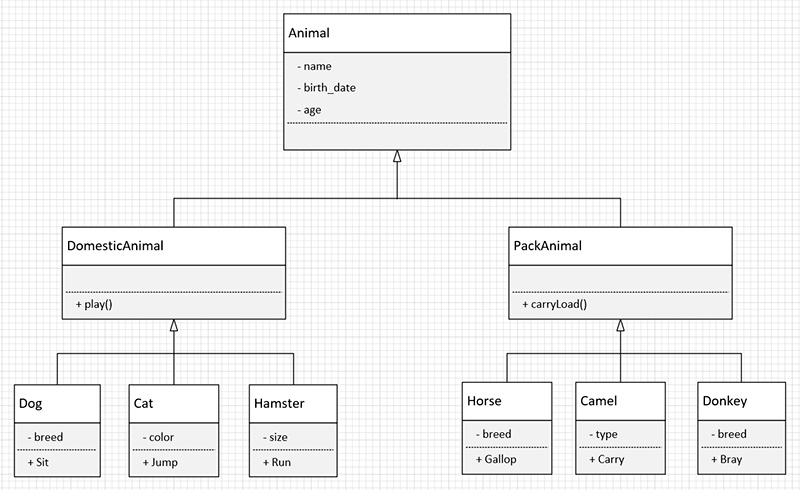
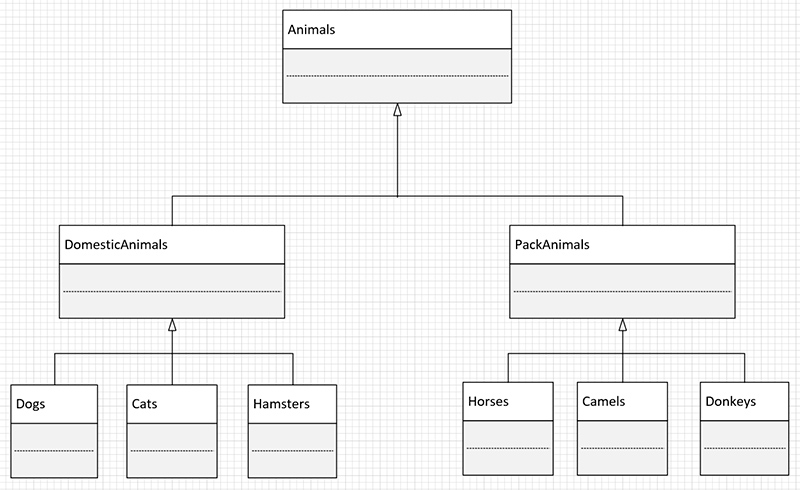
fix task 6-9

diff --git a/readme.md b/readme.md
@@ -21,152 +21,146 @@
 #### Выполнение
 [История команд](https://github.com/ArtRadchenko/AnimalHub/blob/main/bash.txt) в терменале Ubuntu.  
 
-6. Нарисовать диаграмму, в которой есть класс родительский класс, домашние животные и вьючные животные,в составы которых в случае домашних животных войдут классы: собаки, кошки, хомяки, а в класс вьючные животные войдут: Лошади, верблюдыиослы.
+6. Нарисовать диаграмму, в которой есть класс родительский класс, домашние животные и вьючные животные, в составы которых в случае домашних животных войдут классы: собаки, кошки, хомяки, а в класс вьючные животные войдут: Лошади, верблюды и ослы.
 #### Выполнение
 ![Задание 6](https://github.com/ArtRadchenko/AnimalHub/blob/main/Screenshots/uml.jpg)  
 
 7. В подключенном MySQL репозитории создать базу данных “Друзья человека”.
 #### Выполнение
 ```sql
-CREATE DATABASE mans_friends;
+CREATE DATABASE MansFriends;
 ```  
 
 8. Создать таблицы с иерархией из диаграммы в БД.  
 #### Выполнение
 ```sql
--- Таблица для хранения общих данных о животных
-CREATE TABLE Animal (
-    id INT AUTO_INCREMENT PRIMARY KEY,
-    name VARCHAR(100) NOT NULL,
-    birth_date DATE NOT NULL,
-    age INT NOT NULL
+-- Создание таблицы для всех животных
+CREATE TABLE animals (
+    Id INT AUTO_INCREMENT PRIMARY KEY, 
+    AnimalType VARCHAR(30) NOT NULL
 );
 
--- Таблица для домашних животных
-CREATE TABLE DomesticAnimal (
-    id INT AUTO_INCREMENT PRIMARY KEY,
-    animal_id INT,
-    play BOOLEAN DEFAULT FALSE,
-    FOREIGN KEY (animal_id) REFERENCES Animal(id)
+-- Создание таблицы для вьючных животных
+CREATE TABLE packanimals (
+    Id INT AUTO_INCREMENT PRIMARY KEY,
+    GenusName VARCHAR(50),
+    TypeID INT,
+    FOREIGN KEY (TypeID) REFERENCES animals(Id) ON DELETE CASCADE ON UPDATE CASCADE
 );
 
--- Таблица для вьючных животных
-CREATE TABLE PackAnimal (
-    id INT AUTO_INCREMENT PRIMARY KEY,
-    animal_id INT,
-    carry_load BOOLEAN DEFAULT FALSE,
-    FOREIGN KEY (animal_id) REFERENCES Animal(id)
+-- Создание таблицы для домашних животных
+CREATE TABLE domesticanimals (
+    Id INT AUTO_INCREMENT PRIMARY KEY,
+    GenusName VARCHAR(50),
+    TypeID INT,
+    FOREIGN KEY (TypeID) REFERENCES animals(Id) ON DELETE CASCADE ON UPDATE CASCADE
 );
 
--- Таблица для собак
-CREATE TABLE Dog (
-    id INT AUTO_INCREMENT PRIMARY KEY,
-    domestic_animal_id INT,
-    breed VARCHAR(50) NOT NULL,
-    FOREIGN KEY (domestic_animal_id) REFERENCES DomesticAnimal(id)
+-- Создание таблицы для собак
+CREATE TABLE dogs (
+    Id INT AUTO_INCREMENT PRIMARY KEY,
+    DomesticAnimalID INT,
+    Name VARCHAR(50),
+    Command VARCHAR(50),
+    BirthDate DATE,
+    FOREIGN KEY (DomesticAnimalID) REFERENCES domesticanimals(Id) ON DELETE CASCADE ON UPDATE CASCADE
 );
 
--- Таблица для кошек
-CREATE TABLE Cat (
-    id INT AUTO_INCREMENT PRIMARY KEY,
-    domestic_animal_id INT,
-    color VARCHAR(30) NOT NULL,
-    FOREIGN KEY (domestic_animal_id) REFERENCES DomesticAnimal(id)
+-- Создание таблицы для кошек
+CREATE TABLE cats (
+    Id INT AUTO_INCREMENT PRIMARY KEY,
+    DomesticAnimalID INT,
+    Name VARCHAR(50),
+    Command VARCHAR(50),
+    BirthDate DATE,
+    FOREIGN KEY (DomesticAnimalID) REFERENCES domesticanimals(Id) ON DELETE CASCADE ON UPDATE CASCADE
 );
 
--- Таблица для хомяков
-CREATE TABLE Hamster (
-    id INT AUTO_INCREMENT PRIMARY KEY,
-    domestic_animal_id INT,
-    size VARCHAR(30) NOT NULL,
-    FOREIGN KEY (domestic_animal_id) REFERENCES DomesticAnimal(id)
+-- Создание таблицы для хомяков
+CREATE TABLE hamsters (
+    Id INT AUTO_INCREMENT PRIMARY KEY,
+    DomesticAnimalID INT,
+    Name VARCHAR(50),
+    Command VARCHAR(50),
+    BirthDate DATE,
+    FOREIGN KEY (DomesticAnimalID) REFERENCES domesticanimals(Id) ON DELETE CASCADE ON UPDATE CASCADE
 );
 
--- Таблица для лошадей
-CREATE TABLE Horse (
-    id INT AUTO_INCREMENT PRIMARY KEY,
-    pack_animal_id INT,
-    breed VARCHAR(50) NOT NULL,
-    FOREIGN KEY (pack_animal_id) REFERENCES PackAnimal(id)
+-- Создание таблицы для лошадей
+CREATE TABLE horses (
+    Id INT AUTO_INCREMENT PRIMARY KEY,
+    PackAnimalID INT,
+    Name VARCHAR(50),
+    Command VARCHAR(50),
+    BirthDate DATE,
+    FOREIGN KEY (PackAnimalID) REFERENCES packanimals(Id) ON DELETE CASCADE ON UPDATE CASCADE
 );
 
--- Таблица для верблюдов
-CREATE TABLE Camel (
-    id INT AUTO_INCREMENT PRIMARY KEY,
-    pack_animal_id INT,
-    type VARCHAR(50) NOT NULL,
-    FOREIGN KEY (pack_animal_id) REFERENCES PackAnimal(id)
+-- Создание таблицы для верблюдов
+CREATE TABLE camels (
+    Id INT AUTO_INCREMENT PRIMARY KEY,
+    PackAnimalID INT,
+    Name VARCHAR(50),
+    Command VARCHAR(50),
+    BirthDate DATE,
+    FOREIGN KEY (PackAnimalID) REFERENCES packanimals(Id) ON DELETE CASCADE ON UPDATE CASCADE
 );
 
--- Таблица для ослов
-CREATE TABLE Donkey (
-    id INT AUTO_INCREMENT PRIMARY KEY,
-    pack_animal_id INT,
-    breed VARCHAR(50) NOT NULL,
-    FOREIGN KEY (pack_animal_id) REFERENCES PackAnimal(id)
-);
-
--- Таблица для хранения команд, которые выполняют животные
-CREATE TABLE Commands (
-    id INT AUTO_INCREMENT PRIMARY KEY,
-    animal_id INT,
-    command VARCHAR(50) NOT NULL,
-    FOREIGN KEY (animal_id) REFERENCES Animal(id)
+-- Создание таблицы для ослов
+CREATE TABLE donkeys (
+    Id INT AUTO_INCREMENT PRIMARY KEY,
+    PackAnimalID INT,
+    Name VARCHAR(50),
+    Command VARCHAR(50),
+    BirthDate DATE,
+    FOREIGN KEY (PackAnimalID) REFERENCES packanimals(Id) ON DELETE CASCADE ON UPDATE CASCADE
 );
 ```  
 
 9. Заполнить низкоуровневые таблицы именами(животных), командами которые они выполняют и датами рождения.
 #### Выполнение
 ```sql
-INSERT INTO Animal (name, birth_date, age) VALUES 
-('Buddy', '2020-05-01', 3),   -- Собака
-('Mittens', '2019-03-15', 4),  -- Кошка
-('Hammy', '2021-07-20', 2),    -- Хомяк
-('Spirit', '2018-10-10', 5),    -- Лошадь
-('Coco', '2020-12-05', 2),      -- Верблюд
-('Donny', '2019-08-22', 4);      -- Осел
+-- Заполнение таблицы dogs
+INSERT INTO dogs (DomesticAnimalID, Name, Command, BirthDate) VALUES 
+(1, 'Buddy', 'Sit', '2023-05-15'),
+(2, 'Max', 'Stay', '2020-01-20'),
+(3, 'Bella', 'Come', '2021-06-10');
 
-INSERT INTO DomesticAnimal (animal_id, play) VALUES 
-(1, TRUE),  -- Собака Buddy
-(2, TRUE),  -- Кошка Mittens
-(3, TRUE);  -- Хомяк Hammy
+-- Заполнение таблицы cats
+INSERT INTO cats (DomesticAnimalID, Name, Command, BirthDate) VALUES 
+(1, 'Whiskers', 'Jump', '2023-07-22'),
+(2, 'Mittens', 'Roll over', '2019-03-05'),
+(3, 'Luna', 'Play dead', '2021-11-15');
 
-INSERT INTO PackAnimal (animal_id, carry_load) VALUES 
-(4, TRUE),  -- Лошадь Spirit
-(5, TRUE),  -- Верблюд Coco
-(6, TRUE);  -- Осёл Donny
+-- Заполнение таблицы hamsters
+INSERT INTO hamsters (DomesticAnimalID, Name, Command, BirthDate) VALUES 
+(1, 'Nibbles', 'Spin', '2023-08-01'),
+(2, 'Puffy', 'Run', '2019-12-12'),
+(3, 'Squeaky', 'Stand', '2021-02-20');
 
-INSERT INTO Dog (domestic_animal_id, breed) VALUES 
-(1, 'Labrador');  -- Собака Buddy
+-- Заполнение таблицы horses
+INSERT INTO horses (PackAnimalID, Name, Command, BirthDate) VALUES 
+(1, 'Spirit', 'Gallop', '2023-04-10'),
+(2, 'Shadow', 'Trot', '2018-09-15'),
+(3, 'Blaze', 'Canter', '2021-01-25');
 
-INSERT INTO Cat (domestic_animal_id, color) VALUES 
-(2, 'Black');  -- Кошка Mittens
+-- Заполнение таблицы camels
+INSERT INTO camels (PackAnimalID, Name, Command, BirthDate) VALUES 
+(1, 'Coco', 'Kneel', '2023-03-18'),
+(2, 'Ginger', 'Run', '2017-11-30'),
+(3, 'Biscuit', 'Stand', '2020-05-05');
 
-INSERT INTO Hamster (domestic_animal_id, size) VALUES 
-(3, 'Small');  -- Хомячелло Hammy
-
-INSERT INTO Horse (pack_animal_id, breed) VALUES 
-(1, 'Arabian');  -- Лошадь Spirit
-
-INSERT INTO Camel (pack_animal_id, type) VALUES 
-(2, 'Dromedary');  -- Верблюд Coco
-
-INSERT INTO Donkey (pack_animal_id, breed) VALUES 
-(3, 'Standard');  -- Осёл Donny
-
-INSERT INTO Commands (animal_id, command) VALUES 
-(1, 'Sit'),       -- Собака Buddy
-(2, 'Jump'),      -- Кошка Mittens
-(3, 'Run'),       -- Хомяк Hammy
-(4, 'Gallop'),    -- Лошадь Spirit
-(5, 'Carry'),     -- Верблюд Coco
-(6, 'Bray');      -- Осёл Donny
+-- Заполнение таблицы donkeys
+INSERT INTO donkeys (PackAnimalID, Name, Command, BirthDate) VALUES 
+(1, 'Eeyore', 'Bray', '2023-02-14'),
+(2, 'Jack', 'Walk', '2016-07-04'),
+(3, 'Daisy', 'Run', '2021-09-09');
 ```  
 
 10. Удалив из таблицы верблюдов, т.к. верблюдов решили перевезти в другой питомник на зимовку. Объединить таблицы лошади, и ослы в одну таблицу.
 #### Выполнение
 ```sql
-DELETE FROM Camel WHERE pack_animal_id = 2;  -- Минус Верблюд Coco
+
 ```  
 
 ```sql
@@ -180,3 +174,17 @@ SELECT pack_animal_id, breed, 'Donkey' AS type FROM Donkey;
 DROP TABLE Horse;
 DROP TABLE Donkey;
 ```  
+11. Создать новую таблицу “молодые животные” в которую попадут все животные старше 1 года, но младше 3 лет и в отдельном столбце с точностью до месяца подсчитать возраст животных в новой таблице.
+#### Выполнение
+```sql
+-- Создание новой таблицы young_animals
+CREATE TABLE young_animals AS
+SELECT 
+    *,
+    TIMESTAMPDIFF(MONTH, birth_date, CURDATE()) AS age_in_months
+FROM 
+    Animals
+WHERE 
+    TIMESTAMPDIFF(YEAR, birth_date, CURDATE()) > 1 AND 
+    TIMESTAMPDIFF(YEAR, birth_date, CURDATE()) < 3;
+```
